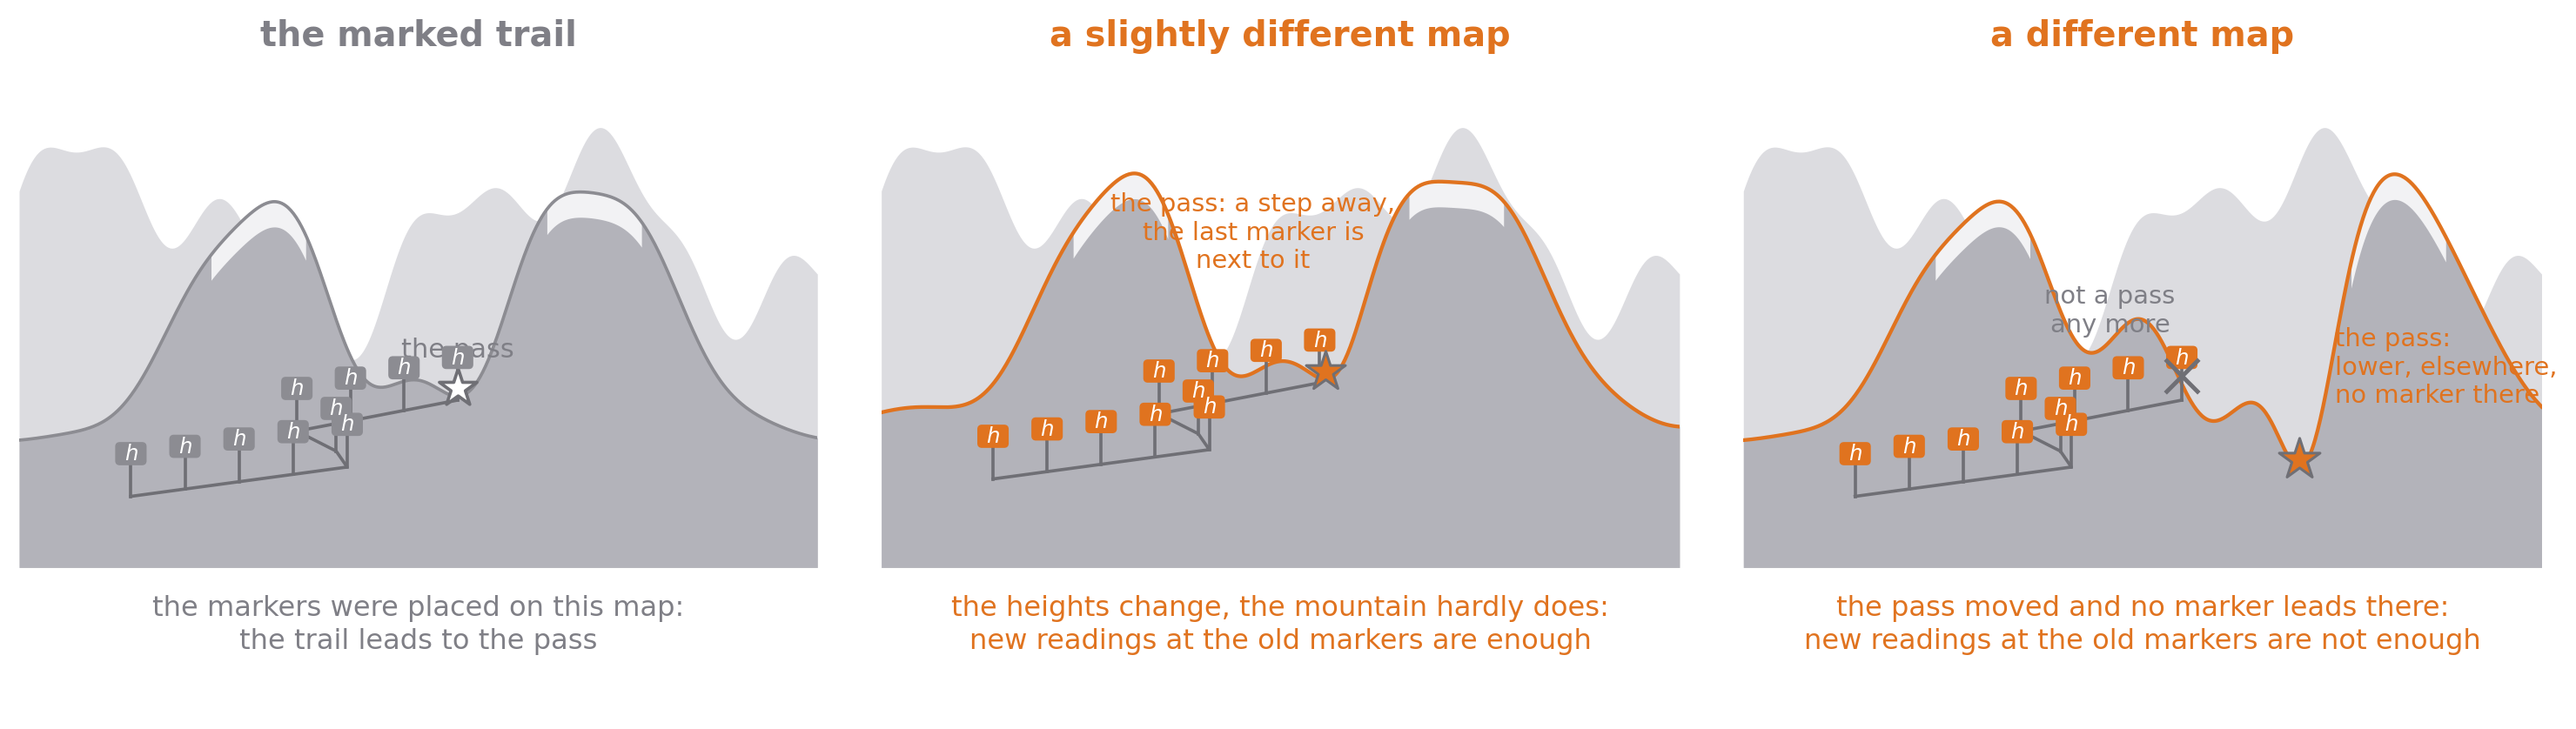
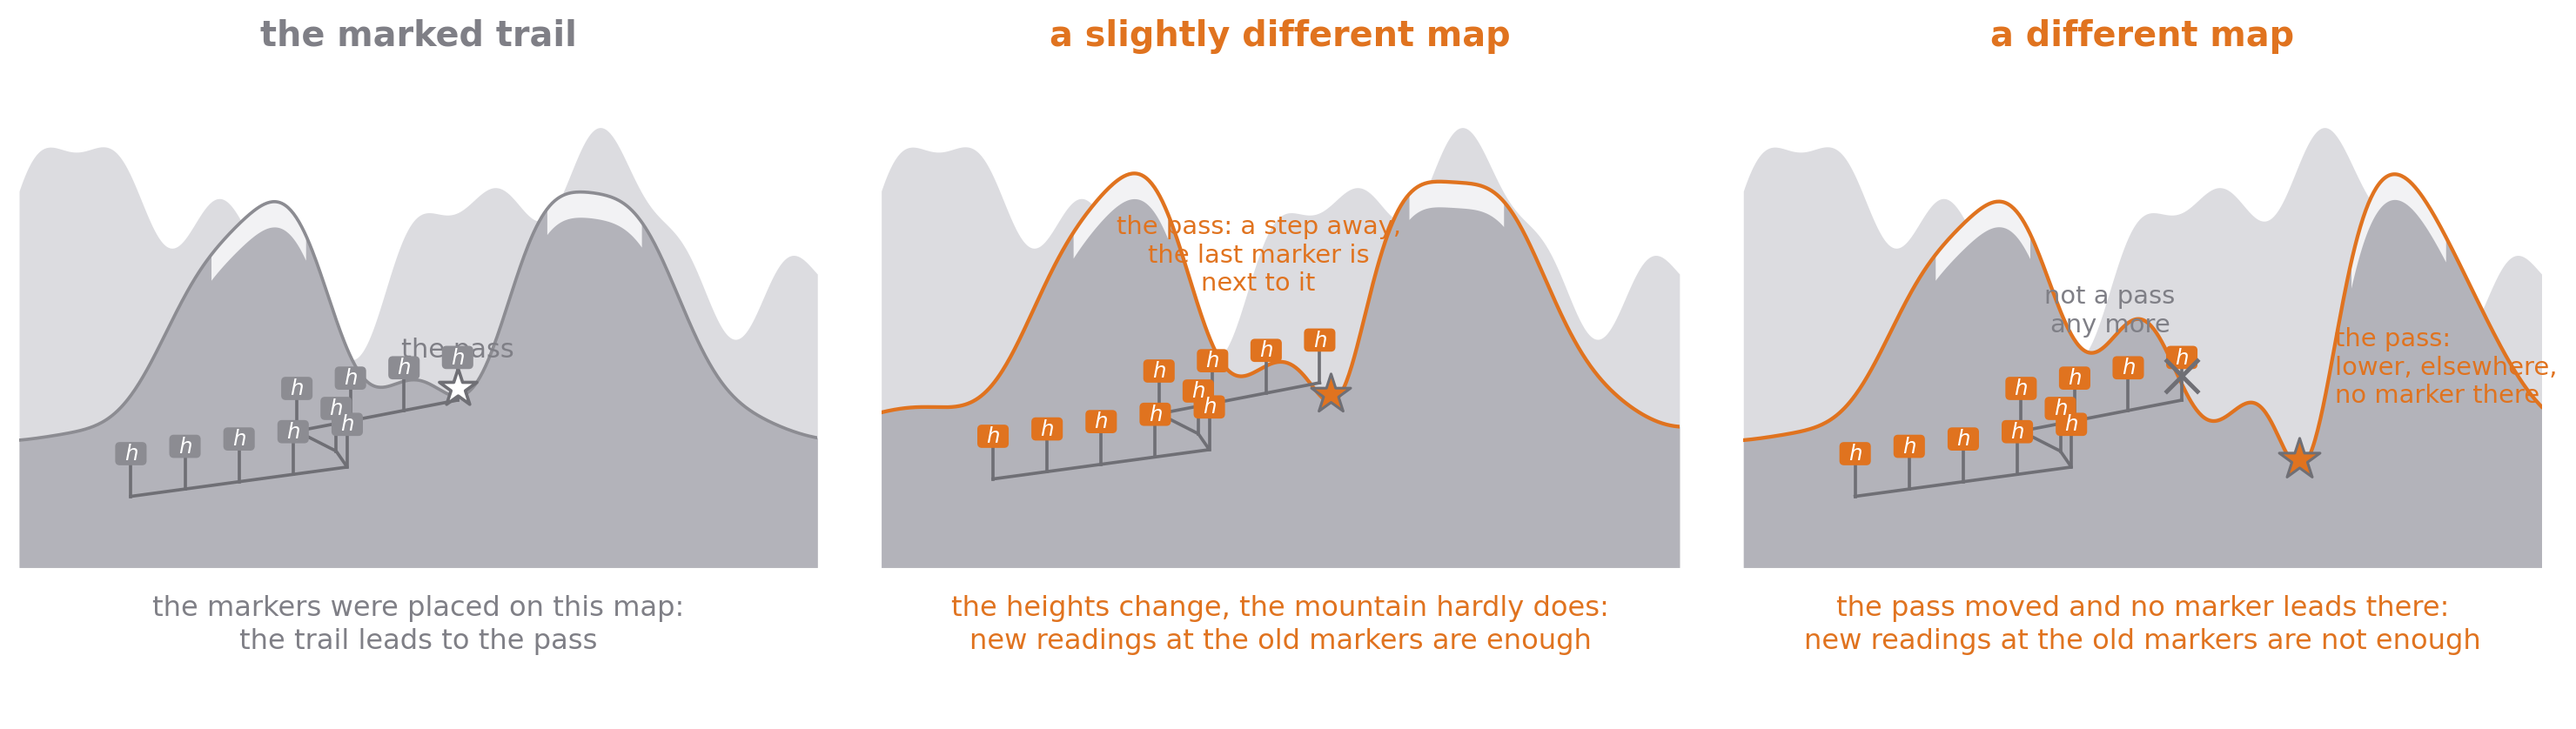
Defence talk: v5, the middle pass a little lower

Changed region(s): [[0.4351, 0.2482, 0.5595, 0.4033], [0.4973, 0.4654, 0.5284, 0.5585]]

diff --git a/docs/defence/draw_dataset_pics.py b/docs/defence/draw_dataset_pics.py
@@ -923,7 +923,7 @@ def mountains_lot5(ax):
     ax.fill_between(xs, 0, back, color="#dcdce0", lw=0)
     front = (1.6 + 3.0 * np.exp(-((xs - 3.0) ** 2) / 1.6) + 3.3 * np.exp(-((xs - 7.2) ** 2) / 1.8)
              + 0.3 * np.sin(xs * 4.1) * np.exp(-((xs - 5.1) ** 2) / 8))
-    front = front + 0.25 + 0.12 * np.sin(xs * 2.3 + 1) - 0.22 * np.exp(-((xs - 5.75) ** 2) / 0.12)
+    front = front + 0.25 + 0.12 * np.sin(xs * 2.3 + 1) - 0.55 * np.exp(-((xs - 5.75) ** 2) / 0.14)
     ax.fill_between(xs, 0, front, color="#b3b3ba", lw=0)
     ax.plot(xs, front, color=NEW, lw=1.4)
     for cx in (3.0, 7.2):
